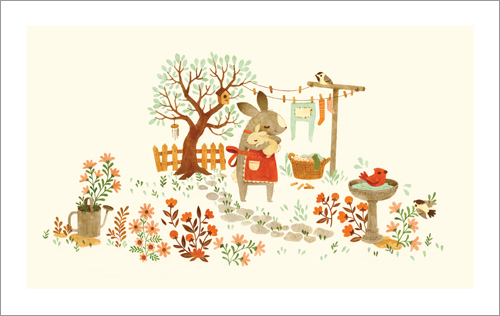
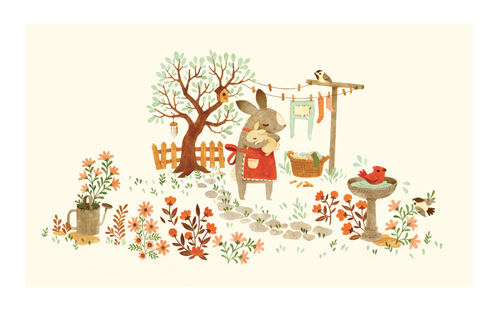
Update site style

diff --git a/app/assets/stylesheets/application.scss b/app/assets/stylesheets/application.scss
@@ -1,2 +1,64 @@
 @import "bootstrap-sprockets";
 @import "bootstrap";
+
+$nav-color: #E05A61;
+$ivory: #FFFffB;
+$body-color: #3A6B6F;
+
+body {
+  background-color: $ivory;
+}
+.container {
+  margin-top: 0;
+}
+img {
+  width: 100%;
+  border: none;
+  margin-top: 0;
+}
+
+.story-list {
+  margin-top: 3em;
+  color: $body-color;
+}
+
+.hero-unit {
+  background-color:white;
+  background-size:cover;
+  background-image: image-url("18.jpg");
+  background-repeat: no-repeat;
+  background-position: center;
+  text-align: center;
+  height: 345px;
+  margin-top: 0;
+  h1 {
+    margin-top: 0;
+    color: $nav-color;
+    opacity: .9;
+    font-size: 3em;
+    padding-top: 120px;
+    text-align: left;
+    margin-left: 2em;
+    font-family: "spumante",sans-serif;
+  }
+}
+
+nav#navbar {
+  background-color: $nav-color;
+  border-radius: 0;
+  a {
+    color: $ivory;
+    font-weight: lighter;
+    letter-spacing: 1px;
+  }
+  .navbar-brand {
+    font-weight: bold;
+    font-family: "spumante",sans-serif;
+    font-size: 2em;
+  }
+  .navbar  {
+    .navbar-default {
+      margin-bottom: 0px;
+    }
+  }
+}

diff --git a/db/seeds.rb b/db/seeds.rb
@@ -1,7 +1,24 @@
-# This file should contain all the record creation needed to seed the database with its default values.
-# The data can then be loaded with the rails db:seed command (or created alongside the database with db:setup).
-#
-# Examples:
-#
-#   movies = Movie.create([{ name: 'Star Wars' }, { name: 'Lord of the Rings' }])
-#   Character.create(name: 'Luke', movie: movies.first)
+Story.create(title: "The day Mousy ate the moon", creator: "Elise")
+Story.create(title: "Fox and Shrew go to the market", creator: "Stephanie")
+Story.create(title: "How to fly a bus", creator: "Julia")
+
+Image.create(number: 1)
+Image.create(number: 2)
+Image.create(number: 3)
+Image.create(number: 4)
+Image.create(number: 5)
+Image.create(number: 6)
+Image.create(number: 7)
+Image.create(number: 8)
+Image.create(number: 9)
+Image.create(number: 10)
+Image.create(number: 11)
+Image.create(number: 12)
+Image.create(number: 13)
+Image.create(number: 14)
+Image.create(number: 15)
+Image.create(number: 16)
+Image.create(number: 17)
+Image.create(number: 18)
+Image.create(number: 19)
+Image.create(number: 20)

diff --git a/spec/models/story_spec.rb b/spec/models/story_spec.rb
@@ -3,7 +3,7 @@ require 'rails_helper'
 describe Story do
   it { should have_many :components }
   it { should have_many(:images).through(:components) }
-  it { should validate_length_of(:title).is_at_most(30).on(:create) }
+  it { should validate_length_of(:title).is_at_most(40).on(:create) }
   it { should validate_length_of(:creator).is_at_most(10).on(:create) }
   it { should validate_presence_of :title }
   it { should validate_presence_of :creator }

diff --git a/app/models/story.rb b/app/models/story.rb
@@ -1,7 +1,7 @@
 class Story < ActiveRecord::Base
   has_many :components
   has_many :images, through: :components
-  validates :title, :length => { maximum: 30 }
+  validates :title, :length => { maximum: 40 }
   validates :creator, :length => { maximum: 10 }
   validates :title, :creator, :presence => true
 end

diff --git a/config/routes.rb b/config/routes.rb
@@ -1,3 +1,6 @@
 Rails.application.routes.draw do
-  # For details on the DSL available within this file, see http://guides.rubyonrails.org/routing.html
+  root :to => 'stories#index'
+  resources :stories do
+   resources :components
+  end
 end

diff --git a/app/controllers/stories_controller.rb b/app/controllers/stories_controller.rb
@@ -1,0 +1,5 @@
+class StoriesController < ApplicationController
+  def index
+    @stories = Story.all
+  end
+end
